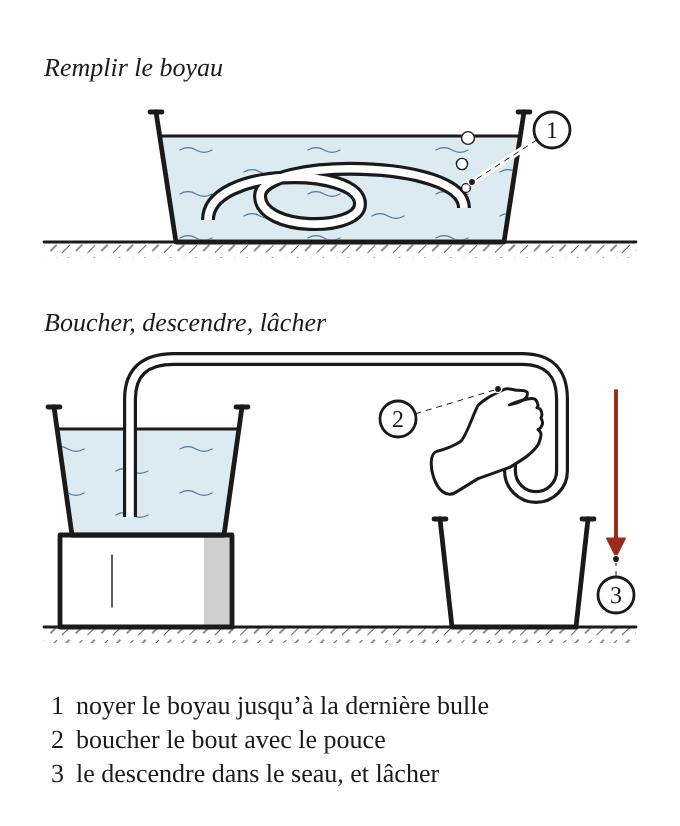
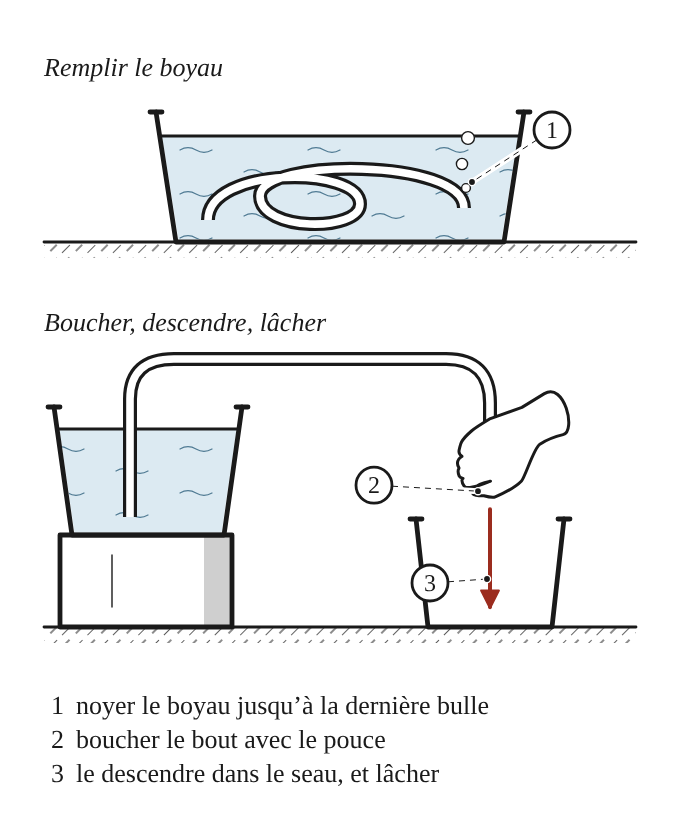
En cours : travail des agents (ch. 10, dangers partie 2)
Claude-Session: https://claude.ai/code/session_014xDY5FLxFXDJt3nYAYznSZ

Changed region(s): [[0.5868, 0.4237, 0.9574, 0.7567], [0.5559, 0.4843, 0.6176, 0.5448], [0.525, 0.5448, 0.5868, 0.6356]]

diff --git a/images/planches-src/10-08.js b/images/planches-src/10-08.js
@@ -101,7 +101,7 @@ module.exports = (h) => {
   return {
     ref: '10-08',
     titre: 'Amorcer un siphon sans la bouche',
-    desc: 'Deux vignettes. En haut, une chaudière pleine d’eau, un boyau couché en boucles au fond, tout entier sous l’eau ; les dernières bulles sortent de son bout. En bas, la chaudière posée sur un billot : un bout du boyau reste au fond de l’eau, le boyau plein passe par-dessus le bord et redescend jusqu’à un poing qui tient l’autre bout, bouché sous le pouce, au-dessus d’un seau posé au sol, plus bas que la chaudière. Le boyau plein passe par-dessus le bord et descend tout droit dans un poing fermé, tenu d’en haut, dont le pouce bouche le bout ; le poing est au-dessus du seau receveur, plus bas que l’eau de la chaudière. Une flèche rouge descend du bout jusqu’au fond du seau : on le descend, puis on le lâche.',
+    desc: 'Deux vignettes. En haut, une chaudière pleine d’eau, un boyau couché en boucles au fond, tout entier sous l’eau ; les dernières bulles sortent de son bout. En bas, la chaudière posée sur un billot : un bout du boyau reste au fond de l’eau, le boyau plein passe par-dessus le bord et descend tout droit dans un poing fermé, tenu d’en haut, dont le pouce bouche le bout ; le poing est au-dessus du seau receveur, plus bas que l’eau de la chaudière. Une flèche rouge descend du bout jusqu’au fond du seau : on le descend, puis on le lâche.',
     format: 'quart',
     disposition: [['remplir'], ['amorcer']],
     hauteurs: [1.3, 2.1],

diff --git a/chapitres/10-eau-puiser-filtrer-desinfecter.md b/chapitres/10-eau-puiser-filtrer-desinfecter.md
@@ -54,7 +54,7 @@ saute jamais.
  Après des retombées radioactives, la pluie, la neige et l'eau de surface se jugent au ch. 4 : ni l'ébullition ni
  le filtre de ce chapitre n'enlèvent ce qui est radioactif.
 2. **Puiser en amont de tout ce qui vit** : le camp, la fosse septique, l'enclos, le sentier de motoneige, la hutte
- de castor. {!selles} Toute eau de surface se traite, même claire, froide et sans odeur. Le castor (*Castor
+ de castor. {!selles} Il faut traiter toute eau de surface, même claire, froide et sans odeur. Le castor (*Castor
  canadensis*) et le rat musqué (*Ondatra zibethicus*) portent *Giardia lamblia* ; avec l'orignal (*Alces
  americanus*), ils vivent dans le bassin d'un chalet boréal et font leurs besoins en amont de la prise d'eau. Dix
  kystes de *Giardia* peuvent suffire à rendre quelqu'un malade, et un kyste mesure 8 × 14 µm : à l'œil, l'eau
@@ -63,8 +63,8 @@ saute jamais.
  des eaux usées qui n'est pas étanche, ou 15 m si le puits est scellé. Un puits scellé a été foré au moins 10 cm
  plus large que son tubage (le tuyau d'acier qui sort du sol), et cet espace a été rempli de bentonite ou de
  ciment-bentonite sur au moins 5 m de profondeur. Ce bouchon oblige l'eau de surface à descendre à travers le sol,
- qui la filtre, au lieu de couler le long du tubage jusqu'à la nappe (les eaux usées : ch. 31). Un puits trop proche,
- ou dont on ne sait pas s'il est scellé, se traite comme une eau de surface.
+ qui la filtre, au lieu de couler le long du tubage jusqu'à la nappe (les eaux usées : ch. 31). L'eau d'un puits trop
+ proche, ou dont on ne sait pas s'il est scellé, se traite comme une eau de surface (étape 14).
 4. **Prendre l'eau à 20 ou 30 cm sous la surface, sans racler le fond** : la surface concentre les pollens et les
  hydrocarbures, et le fond, les sédiments.
 
@@ -88,8 +88,8 @@ saute jamais.
  décantation a laissé ; devant un filtre fin, il fait durer la cartouche.
 10. **Tirer l'eau claire par-dessus le dépôt, à travers le coton, sans remettre le dépôt en suspension** : tenir le
  bout du boyau au-dessus du dépôt, et laisser les 2 ou 3 derniers centimètres au fond (repère 3).
- - **Amorcer le siphon sans la bouche** (planche 10-08, repère 1). Coucher le boyau au fond de la chaudière pleine
- jusqu'à ce qu'il n'en sorte plus de bulle. Boucher un bout avec le pouce (repère 2), et laisser l'autre bout dans
+ - **Amorcer le siphon sans la bouche** (planche 10-08, repère 1). Plonger le boyau dans la chaudière pleine, sans
+ toucher le dépôt, jusqu'à ce qu'il n'en sorte plus de bulle. Boucher un bout avec le pouce (repère 2), et laisser l'autre bout dans
  la chaudière, au-dessus du dépôt. Descendre le bout bouché sur le coton de la chaudière du bas, et lâcher le pouce
  (repère 3) : l'eau coule seule tant que ce bout reste plus bas que le niveau de l'eau de la chaudière du haut.
  - **Autre façon, sans boyau.** Verser doucement, d'un seul mouvement, sans redresser la chaudière, et arrêter
@@ -105,8 +105,8 @@ saute jamais.
  1 000, quand le trouble de l'eau ne dépasse pas 0,3 UNT (l'unité dans laquelle on mesure le trouble). Sans
  appareil de mesure, on regarde une feuille imprimée à travers 20 cm d'eau : on ne doit voir aucun voile. L'œil
  voit un voile à partir d'environ 5 UNT ; une eau limpide à l'œil peut donc être plusieurs fois au-dessus de
- 0,3 UNT, et le filtre y retient moins. Un filtre qui ralentit se récure (section 7, « Réparer plutôt que
- remplacer »).
+ 0,3 UNT, et le filtre y retient moins. Quand le filtre ralentit, le récurer (section 7, « Réparer plutôt
+ que remplacer »).
 13. **Autre façon, quand il y a du courant : le stérilisateur à ultraviolet.** Il traite les bactéries, les virus et
  les protozoaires, plus que le chlore et que le filtre. Les particules dans l'eau bloquent ses rayons : une eau
  trouble l'empêche de désinfecter, et rien ne le signale. On le place donc après la décantation et le filtre.
@@ -161,7 +161,7 @@ saute jamais.
  seringue ou un compte-gouttes qui ne sert qu'à elle, dans un contenant qui n'a jamais contenu autre chose que de
  l'eau.
 21. **Brasser et laisser reposer 30 minutes, couvercle posé.** À double dose, attendre plus longtemps : aucune durée
- n'est donnée pour ce cas, et une eau de surface froide se fait bouillir (étape 19).
+ n'est donnée pour ce cas, et on fait bouillir une eau de surface froide (étape 19).
 22. **Sentir l'eau au bout des 30 minutes** : elle doit garder une légère odeur de chlore, ou la bandelette doit
  montrer du chlore libre. Sans odeur, la matière organique a consommé le chlore : redoser une fois et attendre
  encore 30 minutes. Si l'odeur ne revient pas, faire bouillir l'eau.
@@ -170,14 +170,14 @@ saute jamais.
  15 et 20 °C, et 120 minutes entre 5 et 15 °C. Une personne qui a une maladie de la thyroïde mal contrôlée ou une
  allergie à l'iode n'en boit pas ; une femme enceinte n'en boit pas plus de quelques jours, à cause de la thyroïde
  du bébé ; et personne n'en boit plus de quelques semaines. L'iode ne détruit pas *Cryptosporidium* non plus, même
- en allongeant le contact : une eau de surface passe d'abord au filtre à 1 µm.
+ en allongeant le contact : on passe d'abord une eau de surface au filtre à 1 µm.
 
 ### Entreposer
 
 24. **Remplir des contenants alimentaires opaques, à goulot étroit, à ras bord, et les boucher.** L'opacité empêche
- les algues de pousser ; le goulot étroit empêche d'y plonger les mains ou une tasse. Un contenant qui risque de
- geler, dans un hangar, une auto ou une remise, garde un vide d'air et se range couché : plein, il fend en gelant,
- et on le retrouve vide au dégel.
+ les algues de pousser ; le goulot étroit empêche d'y plonger les mains ou une tasse. Dans un contenant qui
+ risque de geler, dans un hangar, une auto ou une remise, laisser un vide d'air et le ranger couché : plein, il fend
+ en gelant, et on le retrouve vide au dégel.
 25. **Écrire la date du traitement sur le contenant.** L'eau traitée n'est pas stérile : le contenant et les mains la
  recontaminent. L'eau bouillie se garde dans un contenant propre et fermé jusqu'à 3 jours au réfrigérateur, ou 24 h
  à la température de la pièce ; passé ce temps, la faire bouillir de nouveau avant de la boire. L'eau chlorée dans
@@ -186,14 +186,14 @@ saute jamais.
 26. **Viser une réserve par personne et par jour** : 4 L pour la trousse de 72 heures (ch. 6) ; quand l'eau manque ou
  qu'elle est contaminée, 6 L pour boire, plus 6 L pour cuisiner et se laver, soit 12 L. Pour quatre personnes, ça
  donne 48 L par jour, 144 L pour 72 heures, et environ 1 440 L pour un mois, soit 72 bidons de 20 L. On stocke les
- 72 heures ; le reste se produit chaque jour, et ce volume quotidien décide de la taille de la marmite et de la
+ 72 heures ; on produit le reste chaque jour, et ce volume quotidien décide de la taille de la marmite et de la
  réserve de bois.
 
 ### Le puits : analyser, puis désinfecter
 
 27. **Faire analyser l'eau du puits tant qu'un laboratoire reçoit des échantillons** : seule l'analyse voit ce qui est
- dissous dans l'eau. L'analyse microbiologique se fait au moins deux fois par année ; l'analyse chimique, au moins
- une fois : uranium, baryum, arsenic, nitrates et nitrites, fer, fluorures, manganèse.
+ dissous dans l'eau. Faire faire l'analyse microbiologique au moins deux fois par année, et l'analyse chimique au
+ moins une fois : uranium, baryum, arsenic, nitrates et nitrites, fer, fluorures, manganèse.
  - {!poison} **Ne préparer aucun biberon avec l'eau d'un puits jamais analysé, même bouillie.** Le nitrate du puits
  empêche le sang du bébé de porter l'oxygène au-delà de 10 mg/L (exprimé en azote, ou 45 mg/L exprimé en
  nitrate), surtout avant 3 mois[^1]. Bouillir n'enlève ni le nitrate, ni l'arsenic, ni l'uranium : l'eau qui part
@@ -205,11 +205,10 @@ saute jamais.
  commencer : l'eau du robinet ne se boit pas pendant les étapes 31 à 34.
 29. **Calculer la javel.** Une javel à 5,25 % contient 52 500 mg de chlore par litre. Pour amener 1 000 L d'eau à
  50 mg/L, il faut 50 × 1 000 ÷ 52 500 ≈ 0,95 L de javel, soit environ **1 L de javel par 1 000 L d'eau**, et
- 5 L pour un puits neuf.
+ 5 L par 1 000 L pour un puits neuf.
 30. **Calculer le volume d'eau du puits.**
  - Mesurer la colonne d'eau, c'est-à-dire la profondeur du puits moins la profondeur où commence l'eau.
- Descendre une ficelle lestée, attachée deux fois, jusqu'à ce que le poids touche le fond, faire un nœud au ras du
- haut du tubage, et remonter : la longueur mouillée de la ficelle est la colonne d'eau. Un puits de 40 m dont l'eau
+ Descendre une ficelle lestée, attachée deux fois, jusqu'à ce que le poids touche le fond, puis la remonter : la longueur mouillée de la ficelle est la colonne d'eau. Un puits de 40 m dont l'eau
  commence à 12 m porte 28 m d'eau.
  - Multiplier la colonne par l'eau que contient chaque mètre :
 
@@ -250,7 +249,7 @@ saute jamais.
  la plus régulière. Mesurer la glace du chemin qui mène au trou avant d'y marcher (ch. 15, étapes 40 à 42) ;
  percer et entretenir le trou : ch. 58.
 37. **Garder le trou ouvert sous un couvercle isolé et un matelas de neige**, plutôt que de le repercer chaque jour.
-38. **Prendre la glace du lac avant la neige** : à volume égal, elle donne plus d'eau, et elle se manipule mieux.
+38. **Prendre la glace du lac avant la neige** : à volume égal, elle donne plus d'eau, et on la transporte plus facilement.
 39. **Faire fondre la neige seulement quand il n'y a ni eau libre ni glace.**
  - Prendre la neige tassée et vieillie : la neige fraîche ne contient que 4 à 10 % d'eau, et il en faut de 10 à
  25 L pour un litre d'eau. La neige tassée rend beaucoup plus pour le même effort.
@@ -532,21 +531,21 @@ il faut la marmite ou le filtre à 1 µm.
 
 ### Réparer plutôt que remplacer
 
-- **Une bougie de céramique colmatée** se récure sous l'eau propre avec une brosse dure ou le dos d'un couteau, et
+- **Une bougie de céramique colmatée.** La récurer sous l'eau propre avec une brosse dure ou le dos d'un couteau :
  son débit repart. Chaque nettoyage lui enlève une pelure : mesurer son diamètre quand elle est neuve, l'écrire sur
  le couvercle et le comparer à chaque nettoyage pour savoir quand la changer.
-- **Une cartouche plissée** se rince à contre-courant, sans brosse : la brosse ouvre le pli, et le filtre coule sans
+- **Une cartouche plissée.** La rincer à contre-courant, sans brosse : la brosse ouvre le pli, et le filtre coule sans
  plus rien filtrer.
-- **Un fût de plastique fendu** se ressoude au fer, avec une bande découpée dans un fût du même plastique, le seul
+- **Un fût de plastique fendu.** Le ressouder au fer, avec une bande découpée dans un fût du même plastique, le seul
  qui fond avec lui.
-- **Un boyau crevé** se coupe de part et d'autre du trou, et on raboute les deux bouts sur un manchon de tuyau rigide
+- **Un boyau crevé.** Le couper de part et d'autre du trou, et rabouter les deux bouts sur un manchon de tuyau rigide
  serré au fil de fer.
-- **Une pompe 12 V morte** se remplace par la hauteur : un baril monté sur une plateforme distribue l'eau par
+- **Une pompe 12 V morte.** La remplacer par la hauteur : un baril monté sur une plateforme distribue l'eau par
  gravité ; on monte l'eau du lac jusqu'au baril à bras.
 
 ### Ce qui ne se remplace pas
 
-**Les bandelettes de chlore** : sans elles, le chlore fait maison et le choc du puits se dosent à l'aveugle.
+**Les bandelettes de chlore** : sans elles, on dose le chlore fait maison et le choc du puits à l'aveugle.
 **L'analyse chimique** : aucune de ces méthodes ne voit l'arsenic, l'uranium, le nitrate, le manganèse ni le plomb,
 et aucun des cinq n'a de goût. **Un filtre de terrain contre les virus** : il n'en existe pas (étape 11).
 
@@ -554,7 +553,7 @@ et aucun des cinq n'a de goût. **Un filtre de terrain contre les virus** : il n
 
 - **Le volume.** Faire bouillir 16 L par jour pour quatre personnes, le minimum de la trousse, demande une bûche de
  plus à fendre chaque jour, en plus du chauffage. Faire bouillir chaque litre des 48 L de la cible (étape 26) est
- une deuxième corvée à temps plein : l'hygiène descend au minimum en premier (ch. 31). La réserve se monte à
+ une deuxième corvée à temps plein : l'hygiène descend au minimum en premier (ch. 31). On monte la réserve à
  l'automne.
 - **La protection dans le bidon.** Sans javel, l'eau n'a plus de chlore qui la protège une fois traitée (étape 25).
 - **Ce qui est dissous.** L'alambic est le seul à y toucher, et il donne très peu d'eau.
